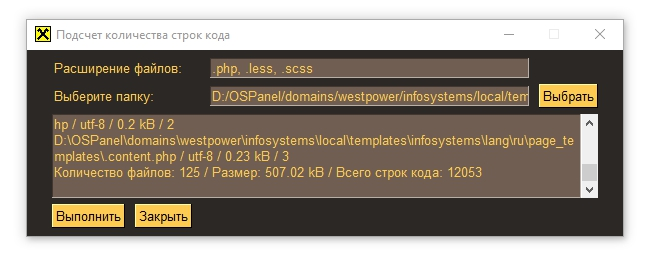
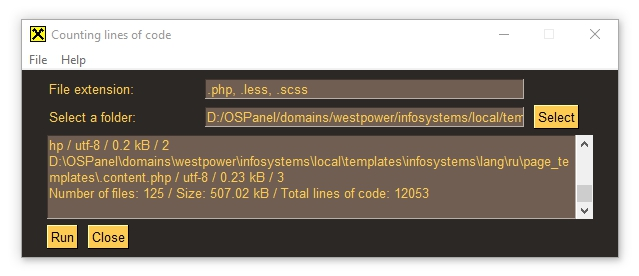
menu && lang

diff --git a/coun-files/countFilesGUI.py b/coun-files/countFilesGUI.py
@@ -1,18 +1,31 @@
 import PySimpleGUI as sg
 import sys
 import os
+import json
+
+# the setting
+try:
+    with open('icon/setting.txt', 'r', encoding='utf-8') as f:
+        setting = json.load(f)
+except Exception as e:
+    setting = {'lang':'EN'}
+    with open('icon/setting.txt', 'w', encoding='utf-8') as f:
+        json.dump(setting, f)
+
+lang = 'icon/lang_ru.py' if setting['lang'] == 'RU' else 'icon/lang_en.py'
+exec(open(lang, encoding='utf-8').read())
 
 def p(text, *args):
     print(text, *args, sep = ' / ', end = '\n')
 
-# возвращает True на зарезервированное расширение, может возвращать само расширение 
+# returns True on the reserved extension, may return the extension itself
 def fexpansion(path, exps = list):
     for exp in exps:
         if path.endswith(exp.strip()):
             return True
     return False
 
-# возвращает известную кодировку файла
+# returns known file encoding
 def correct_encoding(path):
     encodingList = ['utf-8', 'windows-1251', 'cp500', 'utf-16', 'GBK', 'ASCII', 'US-ASCII', 'Big5']
     encodingCod = ''
@@ -26,31 +39,47 @@ def correct_encoding(path):
             break
     return encodingCod
 
-def main():
+def main():    
     favicon = "icon\\favicon.ico" # the icon from windows
     expansion = '.php, .less, .scss' # file extension
     sg.theme('DarkAmber')   # Add a touch of color
+    # Menu Definition
+    menu_def = [[LF['CF_MENU_FILE'], [LF['CF_MENU_LANG'], ['EN','RU'], LF['CF_MENU_EXIT']+'::_exit_']],[LF['CF_MENU_HELP'], LF['CF_MENU_ABOUT_LINK']+'::_about_']]
     # All the stuff inside your window.
     layout = [  # the form
-                [sg.Text('Расширение файлов:', size=(18, 1)), sg.InputText(default_text=expansion, key='_expansion_')],
-                [sg.Text('Выберите папку:', size=(18, 1)), sg.InputText(key='_path_'), sg.FolderBrowse('Выбрать', key='_browse_')],
-                [sg.Multiline(default_text='Сообщения:\n', size=(75, 5), key='_message_', autoscroll=True)],
-                [sg.Button('Выполнить', key='_ok_'), sg.Button('Закрыть', key='_cansel_')] ]
+                [sg.Menu(menu_def, tearoff=True)],
+                [sg.Text(LF['CF_EXPANSION'], size=(18, 1)), sg.InputText(default_text=expansion, key='_expansion_')],
+                [sg.Text(LF['CF_PATH'], size=(18, 1)), sg.InputText(key='_path_'), sg.FolderBrowse(LF['CF_PATH_BUTTON'], key='_browse_')],
+                [sg.Multiline(default_text=LF['CF_MESSAGE'], size=(75, 5), key='_message_', autoscroll=True)],
+                [sg.Button(LF['CF_RUN'], key='_ok_'), sg.Button(LF['CF_CLOSE'], key='_cansel_')] ]
 
     # Create the Window
-    window = sg.Window('Подсчет количества строк кода', layout, icon = favicon)
+    window = sg.Window(LF['CF_TITLE'], layout, icon = favicon)
     # Event Loop to process "events" and get the "values" of the inputs
     while True:
         event, values = window.read()
         errorForm = []
         if event in (None, '_cansel_'):   # if user closes window or clicks cancel
             break    
+        
+        if event.find('_about_') > 0:
+            sg.PopupScrolled(LF['CF_MENU_ABOUT'], size=(60, None), no_titlebar=True)
+
+        if event.find('_exit_') > 0:
+            window.close()
+
+        if event == 'EN' or event == 'RU':
+            setting = {'lang':event}
+            with open('icon/setting.txt', 'w', encoding='utf-8') as f:
+                json.dump(setting, f)
+            window.close()
+
         if event == '_ok_':
             # validation
             if len(values['_path_']) == 0:
-                errorForm.append('выберите папку') 
+                errorForm.append(LF['CF_ERROR_PATH']) 
             if len(values['_expansion_']) == 0:
-                errorForm.append('добавьте расширение файлов')
+                errorForm.append(LF['CF_ERROR_EXPANSION'])
             
             if len(errorForm) > 0:
                 sg.popup("\n".join(errorForm), icon = favicon, no_titlebar=True) 
@@ -78,7 +107,7 @@ def main():
                         farr.append(path)
                         sm += s  # количество строк, += сложение и присваивание
                         skb += kb # количество кбайт, += сложение и присваивание                   
-                mList = ['Количество файлов: ' + str(len(farr)), 'Размер: ' + str(round(skb, 2)) + ' kB', 'Всего строк кода: ' + str(sm)]
+                mList = [LF['CF_FILES'] + str(len(farr)), LF['CF_SIZE'] + str(round(skb, 2)) + ' kB', LF['CF_LINES'] + str(sm)]
                 window['_message_'].update(" / ".join(mList)+'\n', append=True)                
                 #window.Refresh()             
 

diff --git a/coun-files/icon/lang_ru.py b/coun-files/icon/lang_ru.py
@@ -1,0 +1,22 @@
+LF = {
+    'CF_MENU_FILE':'&Файл',
+    'CF_MENU_LANG':'&Язык',
+    'CF_MENU_EXIT':'&Выход',
+    'CF_MENU_HELP':'&Помощь',
+    'CF_MENU_ABOUT_LINK':'&О программе',
+    'CF_MENU_ABOUT':'Подсчитывает общее количество строк кода во всех файлах, пропуская строчки длиной меньше 5 символов.\nПодсчитывает размер файлов в кБайт.\nПодсчитывает общие количество файлов в папке по расширению .php, .less, .scss',
+    # form
+    'CF_TITLE':'Подсчет количества строк кода',
+    'CF_EXPANSION':'Расширение файлов:',
+    'CF_PATH':'Выберите папку:',
+    'CF_PATH_BUTTON':'Выбрать',
+    'CF_MESSAGE':'Сообщения:\n',
+    'CF_RUN':'Выполнить',
+    'CF_CLOSE':'Закрыть',
+    'CF_FILES':'Количество файлов: ',
+    'CF_SIZE':'Размер: ',
+    'CF_LINES':'Всего строк кода: ',
+    # error
+    'CF_ERROR_PATH':'выберите папку',
+    'CF_ERROR_EXPANSION':'добавьте расширение файлов',
+}

diff --git a/coun-files/icon/lang_en.py b/coun-files/icon/lang_en.py
@@ -1,0 +1,22 @@
+LF = {
+    'CF_MENU_FILE':'&File',
+    'CF_MENU_LANG':'&Lang',
+    'CF_MENU_EXIT':'&Exit',
+    'CF_MENU_HELP':'&Help',
+    'CF_MENU_ABOUT_LINK':'&About',
+    'CF_MENU_ABOUT':'Counts the total number of lines of code in all files, skipping lines less than 5 characters long.\nCounts file size in kB.\nCounts the total number of files in a folder by extension .php, .less, .scss',
+    # form
+    'CF_TITLE':'Counting lines of code',
+    'CF_EXPANSION':'File extension:',
+    'CF_PATH':'Select a folder:',
+    'CF_PATH_BUTTON':'Select',
+    'CF_MESSAGE':'Messages:\n',
+    'CF_RUN':'Run',
+    'CF_CLOSE':'Close',
+    'CF_FILES':'Number of files: ',
+    'CF_SIZE':'Size: ',
+    'CF_LINES':'Total lines of code: ',
+    # error
+    'CF_ERROR_PATH':'select folder',
+    'CF_ERROR_EXPANSION':'add file extension',
+}

diff --git a/coun-files/countFiles.py b/coun-files/countFiles.py
@@ -1,5 +1,5 @@
 # подсчет файлов с определенным расширении в определенной папке
-# модуль os https://pythonworld.ru/moduli/modul-os-path.html
+# модуль os https://pythonworld.ru/moduli/modul-os-path.html 
 import sys
 import json # сохраняем все в json
 import os
